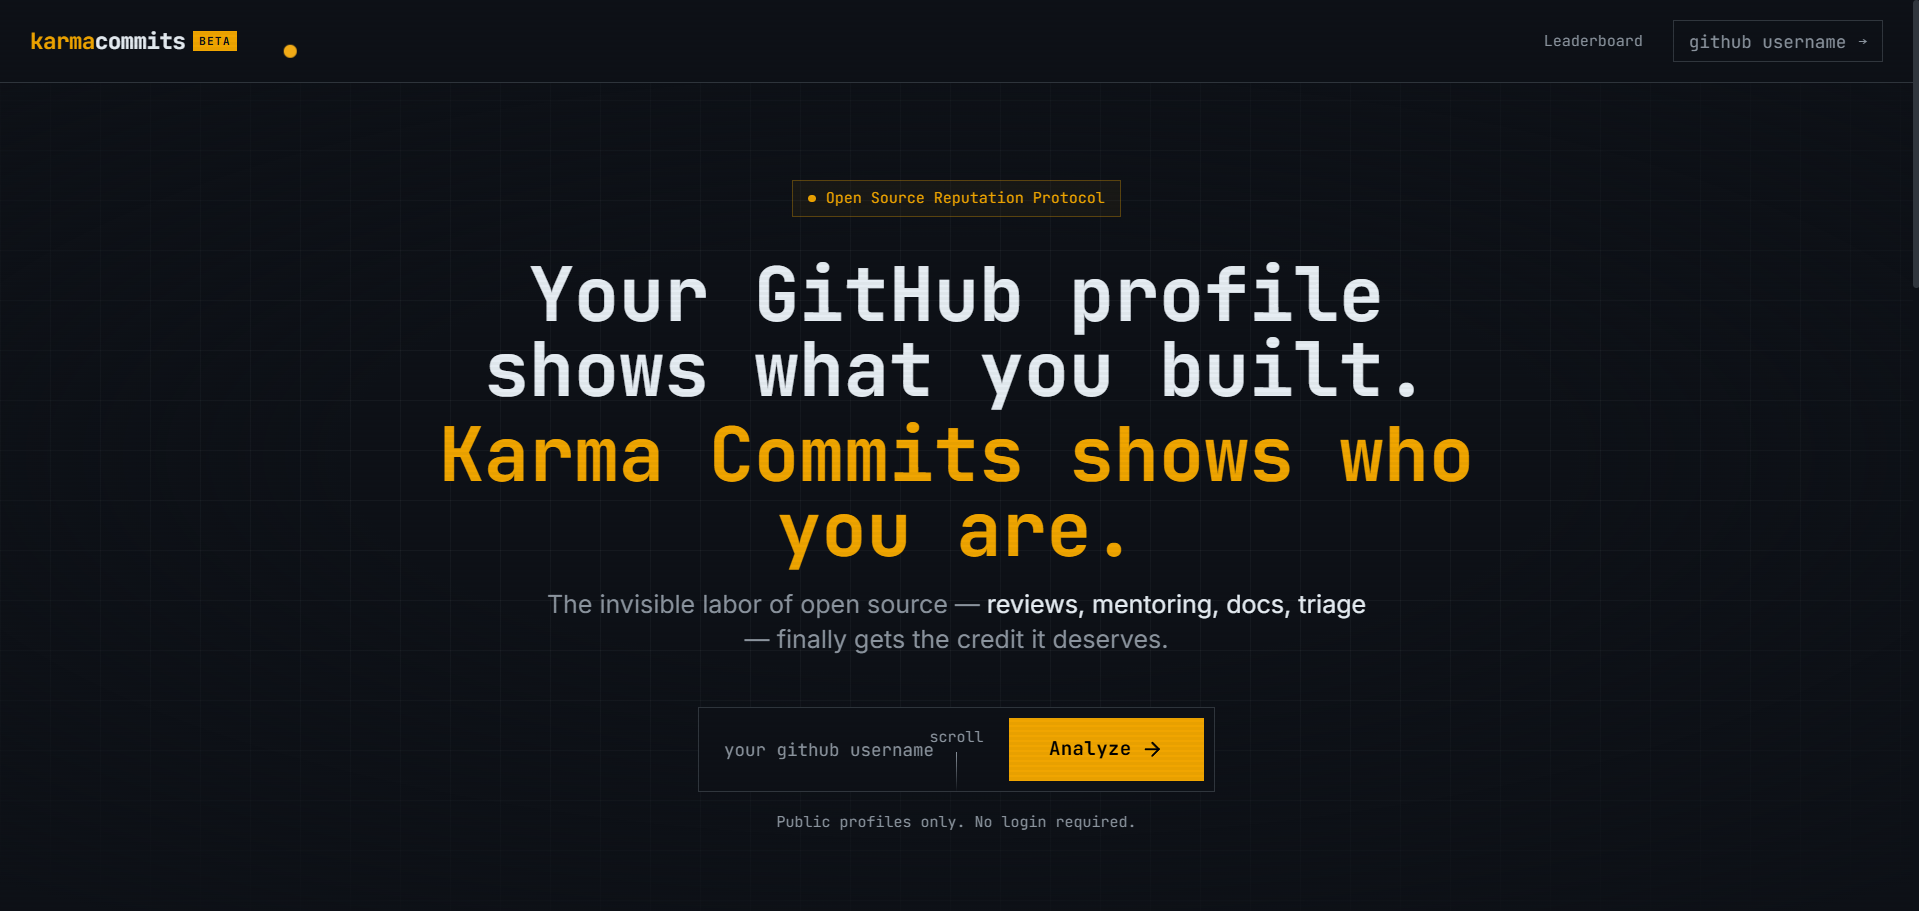
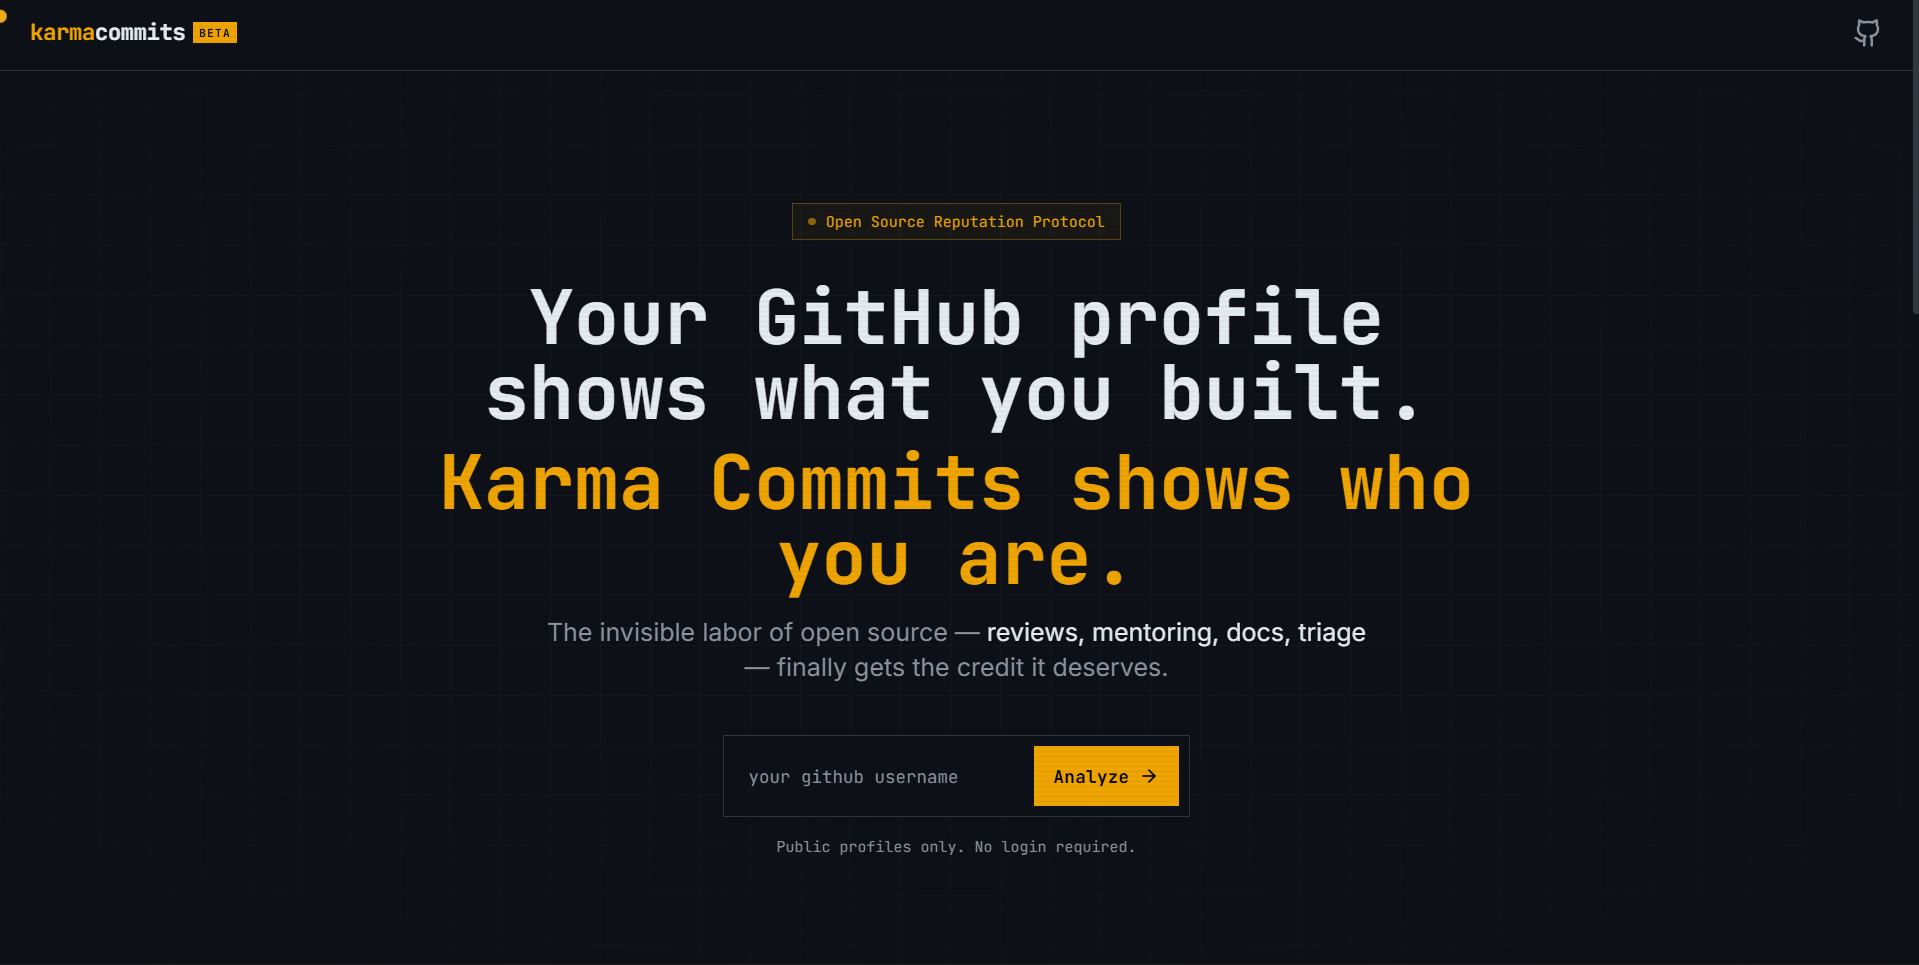
feat: implement scorecard popup with download and navigation enhancements

diff --git a/components/ScorecardPopup.tsx b/components/ScorecardPopup.tsx
@@ -1,0 +1,125 @@
+"use client";
+
+import React, { useRef, useState } from "react";
+import { motion, AnimatePresence } from "framer-motion";
+import { X, Download, Twitter, Linkedin } from "lucide-react";
+import PassportCard from "@/components/PassportCard";
+import { type KarmaPassport } from "@/lib/types";
+import { toPng } from "html-to-image";
+
+interface ScorecardPopupProps {
+  isOpen: boolean;
+  onClose: () => void;
+  passport: KarmaPassport;
+  aiScore?: { score: number; grade: string };
+}
+
+export default function ScorecardPopup({ isOpen, onClose, passport, aiScore }: ScorecardPopupProps) {
+  const cardRef = useRef<HTMLDivElement>(null);
+  const [downloading, setDownloading] = useState(false);
+
+  const handleDownload = async () => {
+    if (!cardRef.current) return;
+    try {
+      setDownloading(true);
+      const dataUrl = await toPng(cardRef.current, {
+        cacheBust: true,
+        backgroundColor: "#0d1117", // gh-bg
+        pixelRatio: 2,
+      });
+      const link = document.createElement("a");
+      link.download = `${passport.user.login}-scorecard.png`;
+      link.href = dataUrl;
+      link.click();
+    } catch (err) {
+      console.error("Failed to generate PNG", err);
+    } finally {
+      setDownloading(false);
+    }
+  };
+
+  const tweetText = encodeURIComponent(
+    `My open-source Karma Score: ${passport.score.total}/1000 via @KarmaCommits — https://karma-commits.vercel.app`
+  );
+
+  const linkedInUrl = `https://www.linkedin.com/sharing/share-offsite/?url=${encodeURIComponent("https://karma-commits.vercel.app")}`;
+
+  return (
+    <AnimatePresence>
+      {isOpen && (
+        <React.Fragment>
+          <motion.div
+            className="fixed inset-0 bg-black/60 backdrop-blur-sm z-[100]"
+            initial={{ opacity: 0 }}
+            animate={{ opacity: 1 }}
+            exit={{ opacity: 0 }}
+            onClick={onClose}
+          />
+          <div className="fixed inset-0 z-[100] flex items-center justify-center p-4 pointer-events-none">
+            <motion.div
+              className="bg-gh-surface border border-gh-border p-4 sm:p-6 w-full max-w-4xl relative pointer-events-auto shadow-2xl"
+              initial={{ opacity: 0, scale: 0.95, y: 20 }}
+              animate={{ opacity: 1, scale: 1, y: 0 }}
+              exit={{ opacity: 0, scale: 0.95, y: 20 }}
+            >
+              <button
+                onClick={onClose}
+                className="absolute -top-3 -right-3 bg-gh-surface border border-gh-border text-gh-muted hover:text-amber p-1.5 rounded-full z-10 transition-colors"
+                aria-label="Close modal"
+              >
+                <X size={16} />
+              </button>
+
+              <div className="mb-4 text-center">
+                <h3 className="font-mono text-amber font-bold tracking-widest uppercase">
+                  Your Full Scorecard
+                </h3>
+              </div>
+              
+              {/* Wrapping ref around PassportCard for html-to-image */}
+              <div 
+                className="overflow-x-auto sm:overflow-visible flex justify-center py-2"
+              >
+                <div ref={cardRef} className="bg-gh-bg p-2 rounded shrink-0">
+                  <PassportCard passport={passport} aiScore={aiScore} />
+                </div>
+              </div>
+
+              {/* Action Buttons */}
+              <div className="flex flex-wrap items-center justify-center gap-3 mt-6">
+                <button
+                  onClick={handleDownload}
+                  disabled={downloading}
+                  className="flex items-center gap-2 font-mono text-xs px-5 py-2.5 bg-amber text-gh-bg font-bold hover:bg-amber/90 transition-colors disabled:opacity-50"
+                >
+                  <Download size={14} />
+                  {downloading ? "Generating..." : "Download PNG"}
+                </button>
+
+                <a
+                  href={`https://twitter.com/intent/tweet?text=${tweetText}`}
+                  target="_blank"
+                  rel="noopener noreferrer"
+                  className="flex items-center gap-2 font-mono text-xs px-5 py-2.5 border border-gh-border text-gh-text hover:border-amber/40 hover:text-amber transition-colors"
+                >
+                  <Twitter size={14} />
+                  Post to X
+                </a>
+
+                <a
+                  href={linkedInUrl}
+                  target="_blank"
+                  rel="noopener noreferrer"
+                  className="flex items-center gap-2 font-mono text-xs px-5 py-2.5 border border-[#0077b5]/50 text-gh-text hover:border-[#0077b5] hover:text-[#0077b5] transition-colors"
+                >
+                  <Linkedin size={14} />
+                  LinkedIn
+                </a>
+              </div>
+            </motion.div>
+          </div>
+        </React.Fragment>
+      )}
+    </AnimatePresence>
+  );
+}

diff --git a/app/dashboard/page.tsx b/app/dashboard/page.tsx
@@ -15,6 +15,7 @@ import {
 } from "recharts";
 import DashboardSkeleton from "@/components/DashboardSkeleton";
 import PassportCard from "@/components/PassportCard";
+import ScorecardPopup from "@/components/ScorecardPopup";
 import { type KarmaPassport, type ContributionData } from "@/lib/types";
 import { buildPassportFromContribution } from "@/lib/karmaEngine";
 
@@ -520,59 +521,6 @@ function BadgeSection({ passport }: { passport: KarmaPassport }) {
   );
 }
 
-// ─── PassportSection ──────────────────────────────────────────────────────────
-
-function PassportSection({ passport }: { passport: KarmaPassport }) {
-  const tierLabelText =
-    (TIER_LABEL[passport.score.tier] ?? "APPRENTICE").replace(/^\S+\s/, "");
-
-  const tweetText = encodeURIComponent(
-    `My open-source Karma Score: ${passport.score.total}/1000 (${tierLabelText}) via @KarmaCommits — https://karma-commits.vercel.app`
-  );
-
-  // Load AI score from localStorage if user toggled it on from the AI Review page
-  const [aiScore, setAiScore] = useState<{ score: number; grade: string } | undefined>(undefined);
-  useEffect(() => {
-    try {
-      const showAi = localStorage.getItem("kc_ai_on_passport") === "true";
-      if (showAi) {
-        const raw = localStorage.getItem("kc_ai_score");
-        if (raw) setAiScore(JSON.parse(raw));
-      }
-    } catch {
-      // ignore
-    }
-  }, []);
-
-  return (
-    <motion.div
-      className="border border-gh-border bg-gh-surface p-4 sm:p-6 hover:border-amber/40 transition-colors duration-200"
-      initial={{ opacity: 0, y: 20, scale: 0.98 }}
-      animate={{ opacity: 1, y: 0, scale: 1 }}
-      transition={{ duration: 0.5, delay: 0.35 }}
-    >
-      <div className="flex flex-col sm:flex-row items-start sm:items-center justify-between gap-3 sm:gap-0 mb-4 sm:mb-5">
-        <h2 className="font-mono text-xs text-gh-muted tracking-widest uppercase">
-          Your OSS Passport
-        </h2>
-        <a
-          href={`https://twitter.com/intent/tweet?text=${tweetText}`}
-          target="_blank"
-          rel="noopener noreferrer"
-          className="font-mono text-xs text-gh-muted hover:text-amber transition-colors"
-        >
-          Share on X →
-        </a>
-      </div>
-
-      {/* Passport Card — 800×460px, horizontally scrollable if needed */}
-      <div className="overflow-hidden w-full overflow-x-auto sm:overflow-visible">
-        <PassportCard passport={passport} aiScore={aiScore} />
-      </div>
-    </motion.div>
-  );
-}
-
 // ─── Main Dashboard Page ──────────────────────────────────────────────────────
 
 function DashboardPageContent() {
@@ -586,6 +534,21 @@ function DashboardPageContent() {
   const [error, setError] = useState<string | null>(null);
   const [isRateLimited, setIsRateLimited] = useState(false);
   const [isNewAccount, setIsNewAccount] = useState(false);
+
+  const [isModalOpen, setIsModalOpen] = useState(false);
+  const [aiScore, setAiScore] = useState<{ score: number; grade: string } | undefined>(undefined);
+
+  useEffect(() => {
+    try {
+      const showAi = localStorage.getItem("kc_ai_on_passport") === "true";
+      if (showAi) {
+        const raw = localStorage.getItem("kc_ai_score");
+        if (raw) setAiScore(JSON.parse(raw));
+      }
+    } catch {
+      // ignore
+    }
+  }, []);
 
   // Redirect to home if no username is provided
   useEffect(() => {
@@ -687,6 +650,14 @@ function DashboardPageContent() {
         </Link>
 
         <div className="flex items-center gap-3 sm:gap-6">
+          <button
+            onClick={() => setIsModalOpen(true)}
+            className="font-mono text-xs px-3 py-1.5 border border-amber/40 bg-amber/10 text-amber hover:bg-amber/20 hover:border-amber transition-all duration-300 flex items-center gap-1.5 shadow-[0_0_12px_rgba(240,165,0,0.15)] rounded hover:shadow-[0_0_16px_rgba(240,165,0,0.25)] ring-1 ring-amber/20"
+          >
+            <Eye size={12} className="animate-pulse" />
+            <span className="font-bold tracking-wide">Passport Card</span>
+          </button>
+
           <Link
             href={username ? `/leaderboard?username=${encodeURIComponent(username)}` : "/leaderboard"}
             className="font-mono text-xs text-gh-muted hover:text-gh-text transition-colors flex items-center gap-1.5"
@@ -738,10 +709,14 @@ function DashboardPageContent() {
             <BadgeSection passport={passport} />
           </motion.div>
         </div>
-
-        {/* ── Passport Card ── */}
-        <PassportSection passport={passport} />
       </main>
+
+      <ScorecardPopup
+        isOpen={isModalOpen}
+        onClose={() => setIsModalOpen(false)}
+        passport={passport}
+        aiScore={aiScore}
+      />
     </div>
   );
 }

diff --git a/components/PassportCard.tsx b/components/PassportCard.tsx
@@ -3,7 +3,7 @@
 import { useRef, useState, memo } from "react";
 import { toPng } from "html-to-image";
 import { Download } from "lucide-react";
-import { Radar, RadarChart, PolarGrid } from "recharts";
+import { Radar, RadarChart, PolarGrid, PolarAngleAxis } from "recharts";
 import { type KarmaPassport } from "@/lib/types";
 
 // ─── Constants ────────────────────────────────────────────────────────────────
@@ -350,15 +350,23 @@ function PassportCard({ passport, aiScore }: PassportCardProps) {
                 </div>
               </div>
 
-              {/* Mini radar — 120×120, no labels, amber fill */}
-              <div style={{ flexShrink: 0, lineHeight: 0 }}>
+              {/* Radar — with labels, amber fill */}
+              <div style={{ flexShrink: 0, lineHeight: 0, marginLeft: "auto" }}>
                 <RadarChart
-                  width={120}
-                  height={120}
+                  width={200}
+                  height={150}
                   data={radarData}
-                  margin={{ top: 6, right: 6, bottom: 6, left: 6 }}
+                  margin={{ top: 12, right: 28, bottom: 12, left: 28 }}
                 >
                   <PolarGrid stroke="#30363d" strokeOpacity={0.9} />
+                  <PolarAngleAxis
+                    dataKey="subject"
+                    tick={{
+                      fill: "#e6edf3",
+                      fontSize: 8,
+                      fontFamily: "'JetBrains Mono', monospace",
+                    }}
+                  />
                   <Radar
                     name="score"
                     dataKey="value"
@@ -366,7 +374,7 @@ function PassportCard({ passport, aiScore }: PassportCardProps) {
                     fillOpacity={0.22}
                     stroke="#f0a500"
                     strokeWidth={1.5}
-                    dot={false}
+                    dot={{ fill: "#f0a500", r: 2 }}
                     isAnimationActive={false}
                   />
                 </RadarChart>

diff --git a/README.md b/README.md
@@ -10,7 +10,7 @@
 
 ---
 
-## � Preview
+## Preview
 
 ### Dashboard
 ![Karma Commits Dashboard](./public/dashboard-preview.png)